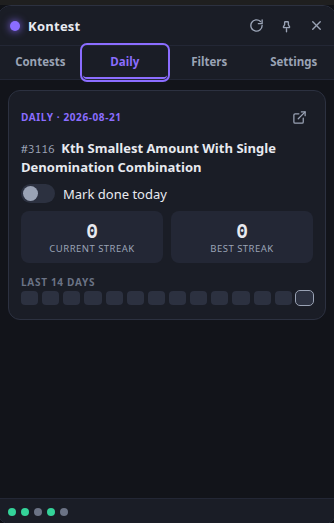
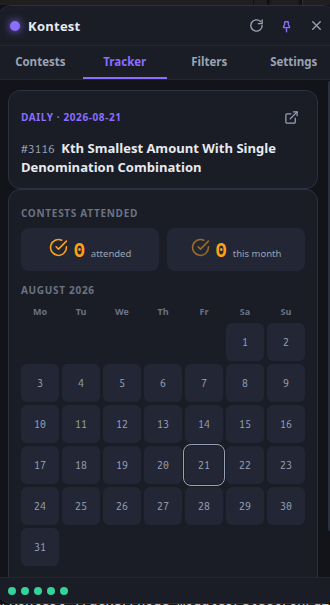
feat: refactor contest attendance tracking and remove daily progress feature

diff --git a/src/renderer/js/views/dailyView.js b/src/renderer/js/views/dailyView.js
@@ -1,5 +1,5 @@
 /**
- * Daily view: today's LeetCode problem (mark-done toggle) plus the
+ * Daily view: today's LeetCode problem (info + quick link) plus the
  * contest attendance tracker — LeetCode-submissions-calendar style, but
  * counting contests attended instead of submissions. Days with at least
  * one attended contest glow in the month heatmap; hovering a day lists
@@ -7,7 +7,7 @@
  */
 
 import { api } from '../api.js';
-import { el, icon, renderEmpty, makeToggle } from '../components/widgets.js';
+import { el, icon, renderEmpty } from '../components/widgets.js';
 import { localDateKey } from '../format.js';
 
 let cardSlot;
@@ -39,37 +39,22 @@ function buildMonthCells(now) {
 }
 
 export function renderDaily(state) {
-  const { daily, progress, attendance } = state;
+  const { daily, attendance } = state;
   cardSlot.replaceChildren();
 
-  renderDailyCard(daily, progress);
+  renderDailyCard(daily);
   renderAttendanceCard(attendance);
 }
 
-function renderDailyCard(daily, progress) {
+function renderDailyCard(daily) {
   if (!daily) {
     cardSlot.append(renderEmpty('📅', 'No daily challenge yet', 'Refresh to fetch today’s LeetCode problem.'));
     return;
   }
 
-  const todayKey = localDateKey();
-  // The challenge's own date string is the progress key; fall back to the
-  // local date when LeetCode's date is missing/malformed.
-  const doneKey = /^\d{4}-\d{2}-\d{2}$/.test(daily.date) ? daily.date : todayKey;
-  const isDone = Boolean(progress?.doneDates?.includes(doneKey));
-
-  const toggle = makeToggle(isDone, (next) => {
-    api.markDailyDone({ date: doneKey, done: next })
-      .then((res) => {
-        if (res?.error) return;
-        window.dispatchEvent(new CustomEvent('kontest:daily-progress', { detail: res.doneDates ? res : null }));
-      })
-      .catch(() => {});
-  }, 'Mark today’s problem as done');
-
   cardSlot.append(el('div', { class: 'daily-card' }, [
     el('div', { class: 'daily-top' }, [
-      el('span', { class: 'daily-date', text: `Daily · ${daily.date || todayKey}` }),
+      el('span', { class: 'daily-date', text: `Daily · ${daily.date}` }),
       el('button', {
         class: 'icon-btn',
         title: 'Open problem on LeetCode',
@@ -79,10 +64,6 @@ function renderDailyCard(daily, progress) {
     el('div', {}, [
       el('span', { class: 'daily-qid', text: `#${daily.questionId} ` }),
       el('span', { class: 'daily-title', text: daily.title }),
-    ]),
-    el('div', { class: 'done-toggle' }, [
-      toggle,
-      el('span', { text: isDone ? 'Done today — nice!' : 'Mark done today' }),
     ]),
   ]));
 }

diff --git a/src/renderer/js/app.js b/src/renderer/js/app.js
@@ -100,15 +100,12 @@ async function boot() {
 
   window.addEventListener('kontest:refresh', doRefresh);
   window.addEventListener('kontest:open-settings', () => showView('settings'));
-  window.addEventListener('kontest:daily-progress', (e) => {
-    if (e.detail) store.patch({ progress: e.detail });
-  });
 
   // 3. Cached data — instant, offline-safe.
   const snap = await api.getContests();
   if (!snap?.error) store.patch({ contests: snap.contests, sources: snap.sources });
   const daily = await api.getDaily();
-  if (!daily?.error) store.patch({ daily: daily.daily, progress: daily.progress });
+  if (!daily?.error) store.patch({ daily: daily.daily });
   const attendance = await api.getAttendance();
   if (!attendance?.error) store.patch({ attendance });
 
@@ -117,7 +114,7 @@ async function boot() {
     store.patch({ contests: s.contests, sources: s.sources });
   });
   api.on('push:daily-updated', (s) => {
-    store.patch({ daily: s.daily, progress: s.progress });
+    store.patch({ daily: s.daily });
   });
   api.on('push:attendance-changed', (a) => {
     store.patch({ attendance: a });

diff --git a/src/main/ipc.js b/src/main/ipc.js
@@ -8,7 +8,6 @@ const { ipcMain, shell, app } = require('electron');
 const settingsMod = require('./settings');
 const scheduler = require('./scheduler');
 const reminders = require('./reminders');
-const dailyProgress = require('./dailyProgress');
 const attendance = require('./attendance');
 const autostart = require('./autostart');
 const windowMod = require('./window');
@@ -84,7 +83,6 @@ function registerIpc() {
   // ---- daily ----
   ipcMain.handle('daily:get', wrap(() => scheduler.getDailySnapshot()));
   ipcMain.handle('daily:refresh', wrap(() => scheduler.refreshDaily()));
-  ipcMain.handle('daily:markDone', wrap(({ date, done }) => dailyProgress.markDone(date, done)));
 
   // ---- attendance ----
   ipcMain.handle('attendance:get', wrap(() => attendance.getState()));

diff --git a/src/main/main.js b/src/main/main.js
@@ -13,7 +13,6 @@ const cache = require('./cache');
 const normalize = require('./normalize');
 const merge = require('./merge');
 const reminders = require('./reminders');
-const dailyProgress = require('./dailyProgress');
 const attendance = require('./attendance');
 const scheduler = require('./scheduler');
 const windowMod = require('./window');
@@ -54,7 +53,6 @@ async function init() {
   settingsMod.initSettings();
   cache.initCache();
   reminders.loadFired();
-  dailyProgress.initDailyProgress();
   attendance.initAttendance();
 
   scheduler.initScheduler({

diff --git a/src/renderer/styles/components.css b/src/renderer/styles/components.css
@@ -413,8 +413,6 @@
 .daily-title { font-weight: 700; line-height: 1.35; }
 .daily-qid { color: var(--text-dim); font-family: var(--mono); font-size: calc(var(--font-size) - 1px); }
 
-.done-toggle { display: flex; align-items: center; gap: 8px; cursor: pointer; user-select: none; }
-
 .streak-row { display: flex; gap: 8px; }
 
 .streak-box {

diff --git a/src/main/scheduler.js b/src/main/scheduler.js
@@ -64,11 +64,9 @@ function getContestsSnapshot() {
 }
 
 function getDailySnapshot() {
-  const dailyProgress = require('./dailyProgress');
   return {
     daily: state.daily,
     fetchedAt: cache.readDaily().fetchedAt,
-    progress: dailyProgress.getProgress(),
   };
 }
 

diff --git a/src/preload/preload.js b/src/preload/preload.js
@@ -30,7 +30,6 @@ contextBridge.exposeInMainWorld('kontest', {
   // daily challenge
   getDaily: invoke('daily:get'),
   refreshDaily: invoke('daily:refresh'),
-  markDailyDone: invoke('daily:markDone'),
 
   // contest attendance
   getAttendance: invoke('attendance:get'),

diff --git a/src/renderer/js/state.js b/src/renderer/js/state.js
@@ -10,7 +10,6 @@ const state = {
   contests: [],
   sources: [],
   daily: null,
-  progress: null,
   attendance: null,
   refreshing: false,
 };

diff --git a/docs/ARCHITECTURE.md b/docs/ARCHITECTURE.md
@@ -18,13 +18,13 @@ Three isolated layers, standard Electron security posture:
 │  ├── normalize.js   validation/clamps (URL allowlist)      │
 │  ├── cache.js       per-source JSON cache (atomic writes)  │
 │  ├── settings.js    defaults + merge + persist             │
-│  ├── dailyProgress  done-dates + streak derivation         │
+│  ├── attendance     contest attendance records + stats     │
 │  ├── autostart.js   ~/.config/autostart .desktop writer    │
 │  └── ipc.js         every ipcMain.handle channel           │
 └──────────────┬─────────────────────────────────────────────┘
                │ contextBridge (preload.js → window.kontest)
 ┌──────────────▼─────────────────────────────────────────────┐
-│ PRELOAD — allowlisted invoke wrappers + 4 push channels    │
+│ PRELOAD — allowlisted invoke wrappers + 5 push channels    │
 └──────────────┬─────────────────────────────────────────────┘
 ┌──────────────▼─────────────────────────────────────────────┐
 │ RENDERER (ES modules, sandboxed, zero Node)                │
@@ -78,13 +78,14 @@ Invoke channels (`ipcMain.handle`), all wrapped so throws become `{ error }`:
 | `clist:test` | live credential probe |
 | `contests:get` | cache-only snapshot `{ contests, sources, nowSec }` |
 | `contests:refresh` | fetch all enabled sources, merge, cache, broadcast |
-| `daily:get / refresh / markDone` | daily challenge + progress |
+| `daily:get / refresh` | LeetCode daily challenge (info card) |
+| `attendance:get / toggle` | contest attendance records + computed stats; toggle broadcasts the new state |
 | `win:hide / setAlwaysOnTop / getState` | widget window control |
 | `app:openExternal` | **allowlist-enforced** (https + known platform hosts only) |
 | `reminders:test` | sample notification |
 | `app:getVersions / openDataFolder / quit` | about + lifecycle |
 
-Push channels (`webContents.send`): `push:contests-updated`, `push:daily-updated`, `push:settings-changed`, `push:resync`.
+Push channels (`webContents.send`): `push:contests-updated`, `push:daily-updated`, `push:attendance-changed`, `push:settings-changed`, `push:resync`.
 
 The preload exposes exactly these as `window.kontest`; nothing else crosses the bridge.
 
@@ -132,10 +133,10 @@ Merge keeps the base contest's stable `id`/`url`/`name`, unions `sources`, fills
 │   └── daily.json
 └── state/
     ├── reminders.json         # { fired: { "<contestId>:<lead>": ts } }
-    └── daily-progress.json    # { done: { "YYYY-MM-DD": { doneAt } } }
+    └── attendance.json        # { attended: { "<contestId>": { dateKey, name, platformKey, url, start, markedAt } } }
 ```
 
-All writes are atomic (tmp + rename) through a single promise chain. Corrupt/missing files fall back to defaults — the app never crashes on bad JSON. Streaks are **computed** from done-dates, never stored.
+All writes are atomic (tmp + rename) through a single promise chain. Corrupt/missing files fall back to defaults — the app never crashes on bad JSON. Attendance stats (per-day grouping, this-month count) are **computed** from the stored records, never stored.
 
 ## Window & tray behavior (GNOME Wayland)
 

diff --git a/README.md b/README.md
@@ -16,7 +16,7 @@ No taskbar entry, no big window — just a compact widget that floats above your
 - **Multi-source aggregation** with per-source health dots in the status bar (green ok / amber stale / red error)
 - **Filters**: platform toggles, start-time window, max duration, hide-running, search, sort
 - **Reminders**: desktop notifications 15 / 30 / 60 minutes before start (configurable), per-contest mute
-- **LeetCode Daily**: today's problem, mark-done tracking, current + best streak, 14-day history strip
+- **Contest attendance**: mark contests attended with the ✓ button (ended contests stay listed for 7 days); Tracker tab shows LeetCode-style stats and a month heatmap of attended days
 - **Themes**: dark/light × violet/teal/amber/rose accents, adjustable font size
 - **Widget behavior**: frameless, always-on-top (toggleable), hides to tray on close/minimize, position remembered, optional launch-on-startup
 - **Offline-safe**: everything cached to disk; a failed source never breaks the others
